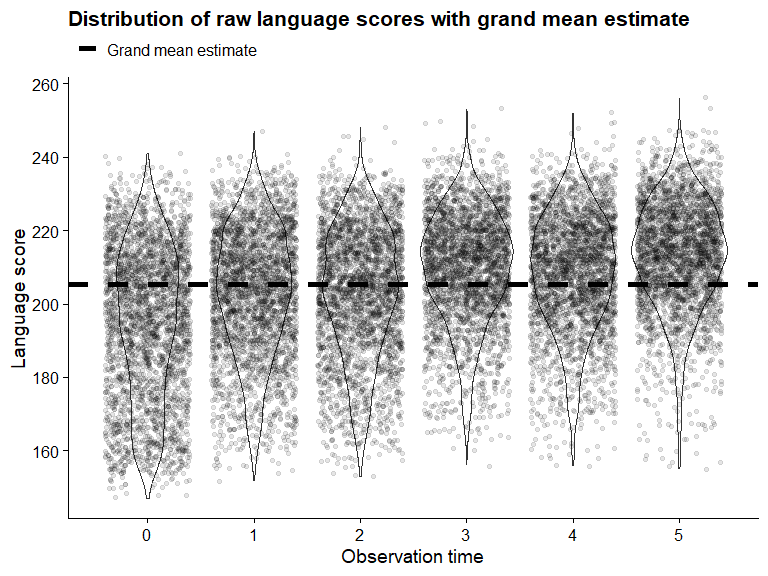
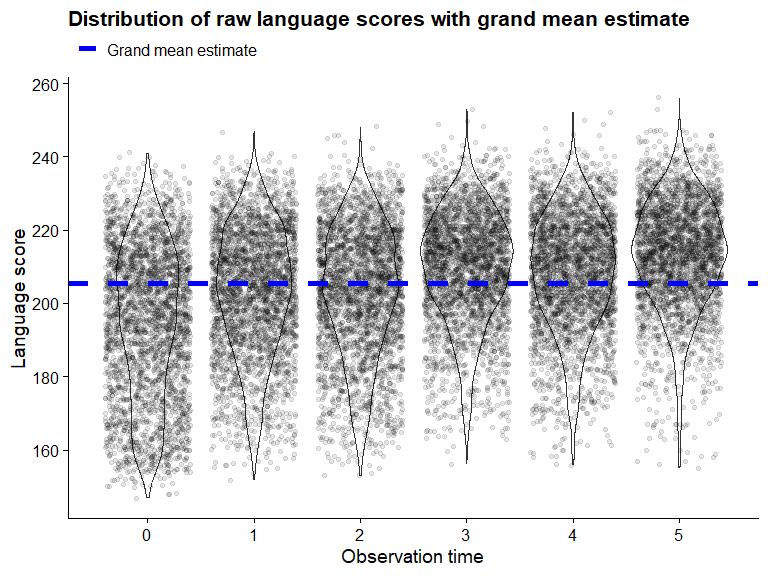
Forgot to recompile rmd

diff --git a/R/modeling-longitudinal-data.md b/R/modeling-longitudinal-data.md
@@ -1,7 +1,7 @@
 Modeling longitudinal data
 ================
 John Fee
-February 25, 2023
+February 27, 2023
 
 ``` r
 library(here)
@@ -18,8 +18,11 @@ data_directory <- here("data")
 language <- get_language_data(data_directory)
 ```
 
+# A random intercept only model
+
+Let’s start by
+
 ``` r
-# Fitting a null model
 null_model <- lme(
   fixed = score ~ 1,
   random = ~1|subject_id,
@@ -69,7 +72,8 @@ variation is associated with cluster (subject) membership.
 ``` r
 null_fit <- language %>%
   bind_cols(
-    null_model$fitted %>% as.data.frame() %>% rename_with(~ glue::glue("fitted_{.}"))
+    null_model$fitted %>% as.data.frame() %>% rename_with(~ glue::glue("fitted_{.}")),
+    null_model$residuals %>% as.data.frame() %>% rename_with(~ glue::glue("residuals_{.}"))
   )
 
 # Plot the level 1 fit (grand mean)
@@ -80,7 +84,8 @@ null_fit %>%
   geom_jitter(alpha = .1) +
   geom_hline(
     aes(yintercept = fitted_fixed,linetype = "Grand mean estimate"),
-    linewidth = 2
+    linewidth = 2,
+    color = "blue"
     ) +
   scale_x_continuous(breaks = seq(0,5,1)) +
   scale_linetype_manual(name = "",values = c("Grand mean estimate" = "dashed")) +
@@ -131,3 +136,237 @@ null_subset %>%
 ```
 
 ![](modeling-longitudinal-data_files/figure-gfm/unnamed-chunk-5-1.png)<!-- -->
+
+``` r
+null_fit %>%
+  ggplot(aes(x = fitted_fixed,y = residuals_fixed)) +
+  geom_point() +
+  geom_smooth(method = "lm",color = "blue")
+```
+
+![](modeling-longitudinal-data_files/figure-gfm/unnamed-chunk-6-1.png)<!-- -->
+
+``` r
+null_fit %>%
+  ggplot(aes(x = fitted_subject_id,y = residuals_subject_id)) +
+  geom_point() +
+  geom_smooth(method = "lm",color = "blue")
+```
+
+![](modeling-longitudinal-data_files/figure-gfm/unnamed-chunk-7-1.png)<!-- -->
+
+``` r
+# Residuals
+
+null_fit %>%
+  ggplot(aes(x = time,y = residuals_fixed)) +
+  geom_jitter(alpha = .1) + 
+  geom_smooth(method = "lm",color = "blue",se = TRUE)
+```
+
+![](modeling-longitudinal-data_files/figure-gfm/unnamed-chunk-8-1.png)<!-- -->
+
+``` r
+null_fit %>%
+  ggplot(aes(x = time,y = residuals_subject_id)) +
+  geom_jitter(alpha = .1) + 
+  geom_smooth(method = "lm",color = "blue",se = TRUE)
+```
+
+![](modeling-longitudinal-data_files/figure-gfm/unnamed-chunk-9-1.png)<!-- -->
+
+# A random intercept model with a time fixed effect
+
+``` r
+model1 <- lme(
+  fixed = score ~ time,
+  random = ~1|subject_id,
+  data = language
+)
+
+summary(model1)
+```
+
+    ## Linear mixed-effects model fit by REML
+    ##   Data: language 
+    ##      AIC    BIC logLik
+    ##   135174 135205 -67583
+    ## 
+    ## Random effects:
+    ##  Formula: ~1 | subject_id
+    ##         (Intercept) Residual
+    ## StdDev:        15.2     7.53
+    ## 
+    ## Fixed effects:  score ~ time 
+    ##             Value Std.Error    DF t-value p-value
+    ## (Intercept) 197.2    0.2936 15189     672       0
+    ## time          3.2    0.0326 15189      99       0
+    ##  Correlation: 
+    ##      (Intr)
+    ## time -0.278
+    ## 
+    ## Standardized Within-Group Residuals:
+    ##     Min      Q1     Med      Q3     Max 
+    ## -6.4040 -0.4986  0.0388  0.5669  4.8636 
+    ## 
+    ## Number of Observations: 18228
+    ## Number of Groups: 3038
+
+Does this improve upon the earlier fit (I would certainly hope so)?
+
+``` r
+anova(null_model,model1)
+```
+
+    ## Warning in anova.lme(null_model, model1): fitted objects with different fixed
+    ## effects. REML comparisons are not meaningful.
+
+    ##            Model df    AIC    BIC logLik   Test L.Ratio p-value
+    ## null_model     1  3 142784 142807 -71389                       
+    ## model1         2  4 135174 135205 -67583 1 vs 2    7612  <.0001
+
+``` r
+model1_fit <- language %>%
+  bind_cols(
+    model1$fitted %>% as.data.frame() %>% rename_with(~ glue::glue("fitted_{.}")),
+    model1$residuals %>% as.data.frame() %>% rename_with(~ glue::glue("residuals_{.}"))
+  )
+
+# Plot the level 1 fit (grand mean)
+
+model1_fit %>%
+  ggplot(aes(x = time,y = score,group = time)) +
+  geom_violin() +
+  geom_jitter(alpha = .1) +
+  geom_line(
+    aes(y = fitted_fixed,group = subject_id,linetype = "Grand slope estimate"),
+    linewidth = 2,
+    color = "blue"
+    ) +
+  scale_x_continuous(breaks = seq(0,5,1)) +
+  scale_linetype_manual(name = "",values = c("Grand slope estimate" = "dashed")) +
+  labs(
+    x = "Observation time",
+    y = "Language score",
+    title = "Distribution of raw language scores with grand mean estimate"
+  ) +
+  theme(legend.position = "top")
+```
+
+![](modeling-longitudinal-data_files/figure-gfm/unnamed-chunk-12-1.png)<!-- -->
+
+``` r
+n_to_subsample <- 10
+
+# Plot a few level 0 fits
+model1_subset <- null_fit %>%
+  distinct(subject_id) %>%
+  slice_sample(n = n_to_subsample)
+
+model1_subset %>%
+  left_join(model1_fit,by = "subject_id",multiple = "all") %>%
+  mutate(
+    subject_id = as.character(subject_id) %>% 
+      forcats::fct_reorder(fitted_subject_id,.fun = mean,.desc = TRUE)
+    ) %>%
+  pivot_longer(
+    cols = c(score,fitted_subject_id)
+  ) %>%
+  mutate(
+    name = case_when(
+      name == "score" ~ "Actual",
+      name == "fitted_subject_id" ~ "Predicted"
+    )
+    #subject_id = factor(subject_id) %>% forcats::fct_reorder(if_else())
+  ) %>%
+  ggplot(aes(x = time,y = value,color = subject_id)) +
+  geom_point() +
+  geom_line(aes(group = subject_id)) +
+  facet_wrap(vars(name)) +
+  scale_color_viridis_d(name = "Subject ID") +
+  labs(
+    title = "Subject level estimates (varying intercepts)",
+    subtitle = glue::glue("Raw data and intercepts for {n_to_subsample} randomly selected subjects shown"),
+    x = "Observation time",
+    y = "Language score"
+  )
+```
+
+![](modeling-longitudinal-data_files/figure-gfm/unnamed-chunk-13-1.png)<!-- -->
+
+``` r
+model1_subset %>%
+  left_join(model1_fit,by = "subject_id",multiple = "all") %>%
+  mutate(
+    subject_id = as.character(subject_id) %>% 
+      forcats::fct_reorder(fitted_subject_id,.fun = mean,.desc = TRUE)
+    ) %>%
+  pivot_longer(
+    cols = c(score,fitted_subject_id)
+  ) %>%
+  mutate(
+    name = case_when(
+      name == "score" ~ "Actual",
+      name == "fitted_subject_id" ~ "Predicted"
+    )
+    #subject_id = factor(subject_id) %>% forcats::fct_reorder(if_else())
+  ) %>%
+  mutate(
+    uniq_id = glue::glue("{subject_id}_{name}")
+  ) %>%
+  ggplot(aes(x = time,color = name,shape = name,linetype = name)) +
+  geom_point(aes(y = value)) +
+  geom_line(aes(
+    y = value,
+    group = uniq_id
+    )) +
+  facet_wrap(vars(subject_id)) +
+  scale_color_manual(
+    values = c("Actual" = "black","Predicted" = "red")
+    ) +
+  scale_shape_manual(values = c("Actual" = 1,"Predicted" = NA)) +
+  scale_linetype_manual(values = c("Actual" = NA,"Predicted" = "solid")) +
+  labs(
+    title = "Subject level estimates (varying intercepts and shared slope)",
+    subtitle = glue::glue("Raw data and intercepts for {n_to_subsample} randomly selected subjects shown"),
+    x = "Observation time",
+    y = "Language score",
+    color = "",
+    shape = "",
+    linetype = ""
+  ) +
+  theme(legend.position = "top")
+```
+
+    ## Warning: Removed 60 rows containing missing values (`geom_point()`).
+
+![](modeling-longitudinal-data_files/figure-gfm/unnamed-chunk-14-1.png)<!-- -->
+
+``` r
+model1_fit %>%
+  ggplot(aes(x = fitted_subject_id,y = residuals_subject_id)) +
+  geom_point() +
+  geom_smooth(method = "lm",color = "blue")
+```
+
+![](modeling-longitudinal-data_files/figure-gfm/unnamed-chunk-15-1.png)<!-- -->
+
+``` r
+# Residuals
+
+model1_fit %>%
+  ggplot(aes(x = time,y = residuals_fixed)) +
+  geom_jitter(alpha = .1) + 
+  geom_smooth(method = "lm",color = "blue",se = TRUE)
+```
+
+![](modeling-longitudinal-data_files/figure-gfm/unnamed-chunk-16-1.png)<!-- -->
+
+``` r
+model1_fit %>%
+  ggplot(aes(x = time,y = residuals_subject_id)) +
+  geom_jitter(alpha = .1) + 
+  geom_smooth(method = "lm",color = "blue",se = TRUE)
+```
+
+![](modeling-longitudinal-data_files/figure-gfm/unnamed-chunk-17-1.png)<!-- -->
